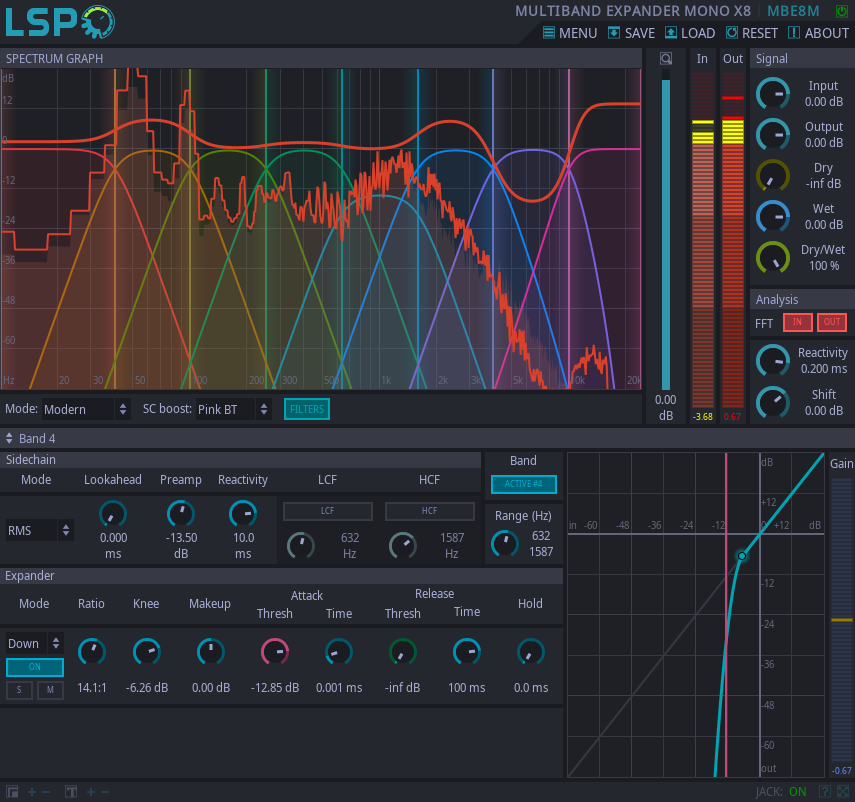
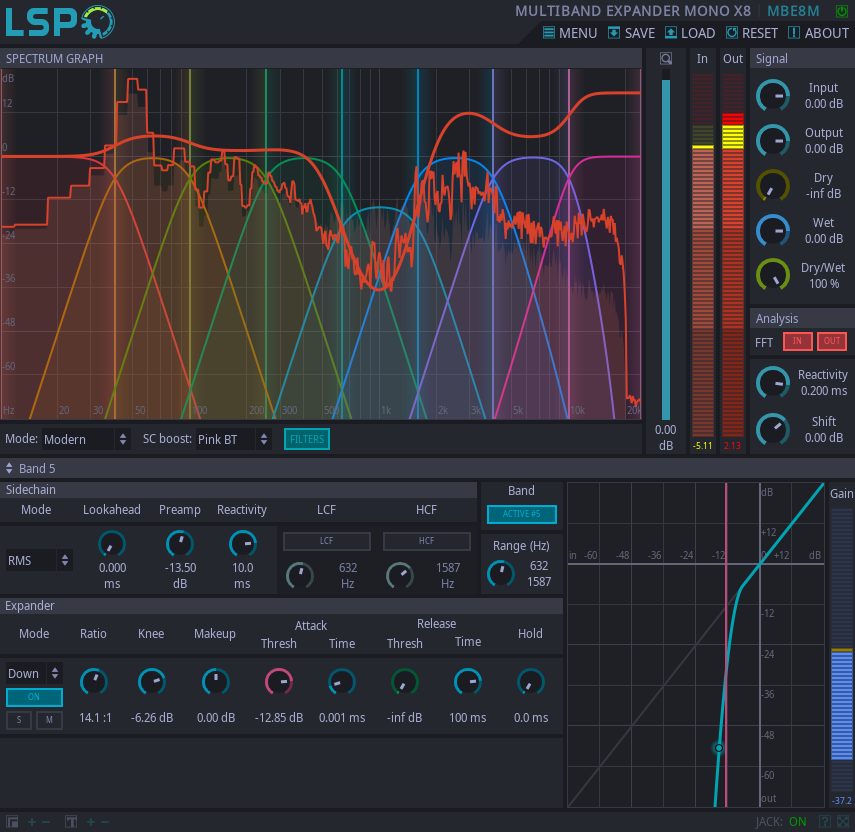
Changed the numbering of splits.
The numbering of splits starts with one, at the UI level.
Updated screenshots.

diff --git a/src/main/ui/mb_expander.cpp b/src/main/ui/mb_expander.cpp
@@ -278,7 +278,7 @@ namespace lsp
                 else
                     lc_string.set("lists.mb_expand.splits.index.split_id");
 
-                lc_string.params()->set_int("id", (vSplits.index_of(s) % (meta::mb_expander_metadata::BANDS_MAX-1))+1);
+                lc_string.params()->set_int("id", (vSplits.index_of(s) % (meta::mb_expander_metadata::BANDS_MAX-1))+2);
                 lc_string.format(&text);
                 params.set_string("id", &text);
                 lc_string.params()->clear();
